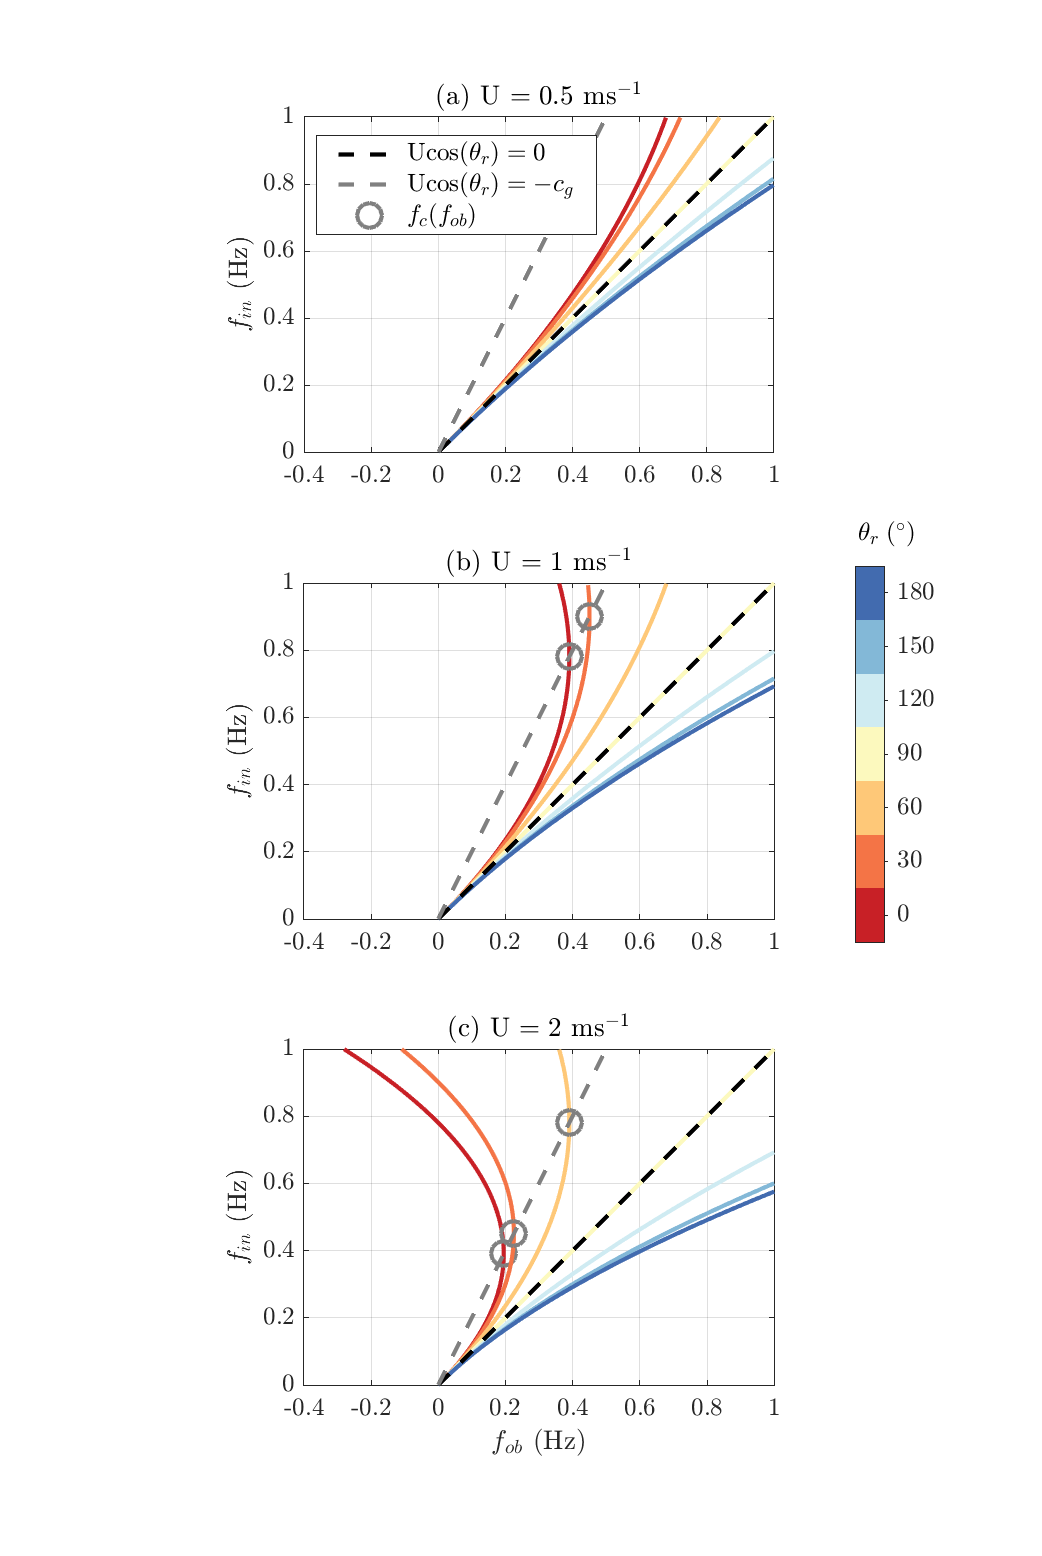
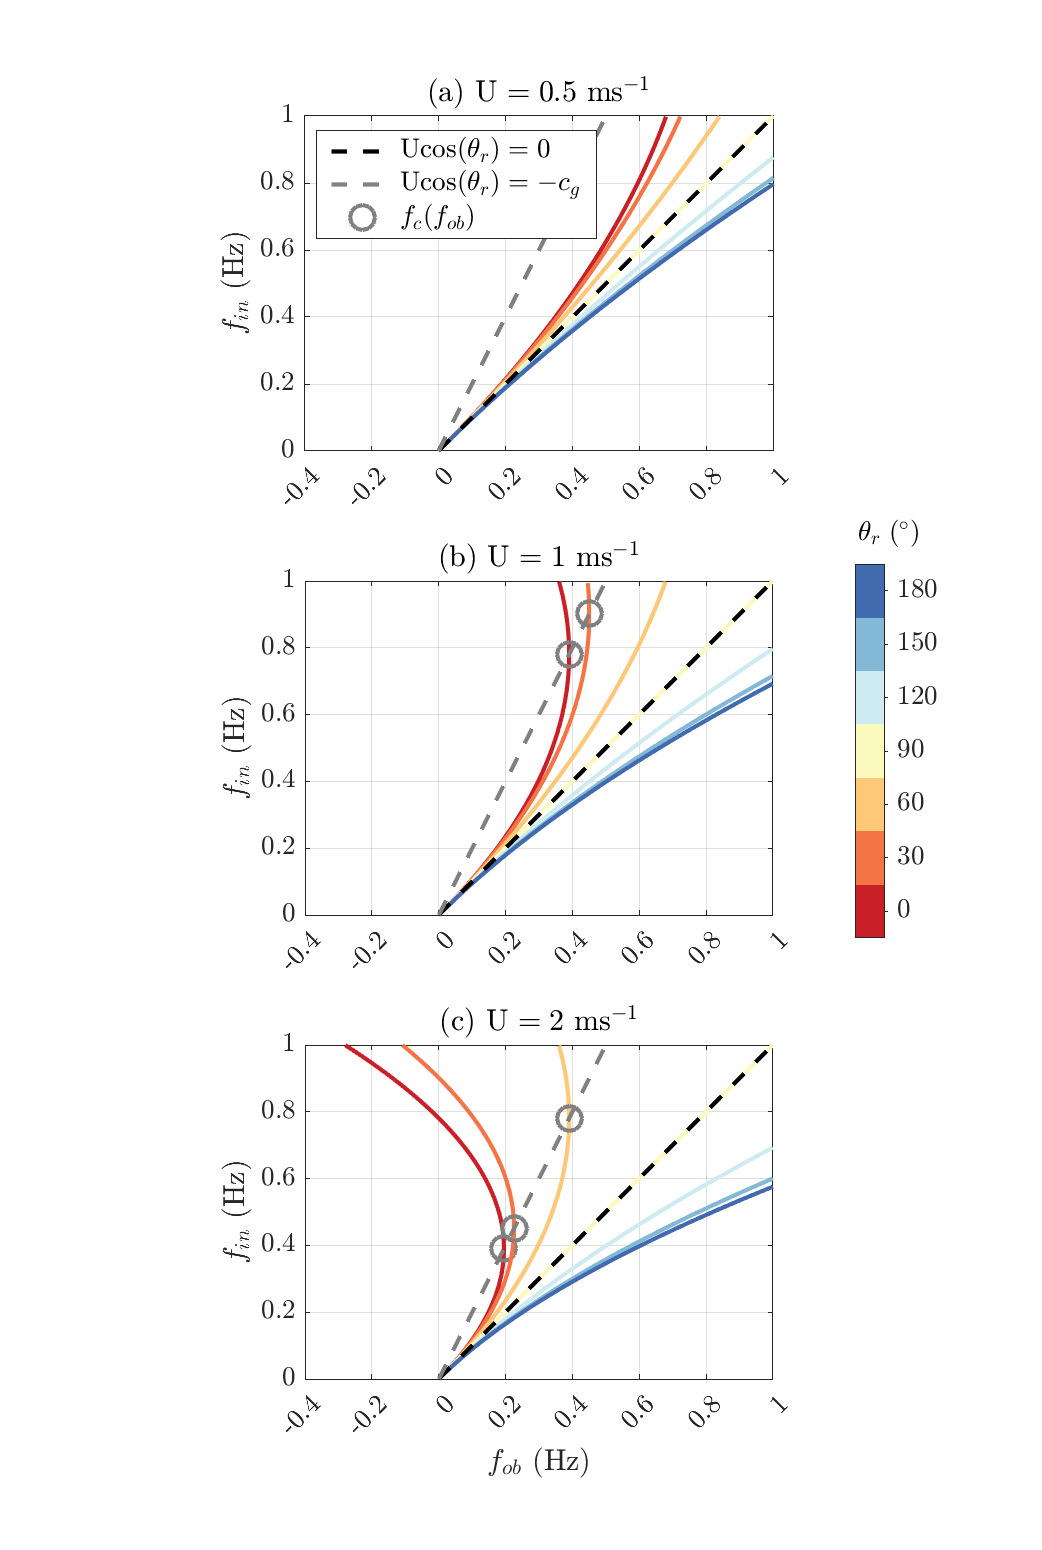
Increase fontsize to 13 and update caption.

diff --git a/src/fig3.m b/src/fig3.m
@@ -2,13 +2,17 @@
 % Luke Colosi | lcolosi@ucsd.edu | August 20th, 2021
 
 %-------------------------------- Caption --------------------------------%
-% Mapping from observed to intrinsic frequency for a platform 
-% moving at 0.5 ms$^{-1}$ (a), 1 ms$^{-1}$ (b), and 2 ms$^{-1}$ 
-% (c) with line color corresponding to the platform's direction relative
-% to the incoming waves. 0 $^{\circ}$ means the platform is moving 
-% strictly with waves) and 180 $^{\circ}$ means the platform is moving 
-% against waves. Gray dashed line is the cutoff frequency $f_c$ with gray
-% circles being $f_c$ for given given directions. 
+% Mapping from observed to intrinsic frequency for a platform moving at 
+% 0.5 ms$^{-1}$ (a), 1 ms$^{-1}$ (b), and 2 ms$^{-1}$ (c) with line color
+% corresponding to the platform's direction relative to the waves. The
+% platform is moving with the waves when $\theta_r$ ranges from 
+% $0^\circ \leq \theta_r < 90^\circ$ (red curves) and is moving against 
+% the waves when $\theta_r$ ranges from 
+% $90^\circ < \theta_r \leq 180^\circ$ (blue curves). The platform is
+% moving perpendicular to the waves when $\theta_r = 90^\circ$. The gray
+% dashed line is the cutoff frequency $f_c$ with gray circles being $f_c$
+% for a given directions. The black dashed line is the one-to-one line
+% occurring when the projected speed vanishes. 
 %-------------------------------------------------------------------------%
 
 clc, clear, close all;
@@ -204,7 +208,7 @@ fig = figure( 'Name', 'Observed vs Intrinsic Frequency');
 POS = [100 100 500 2000];                                                   %[100 100 2000 300];
 set(gcf,'color',[1 1 1])
 set(gcf,'position',POS) 
-fontsize = 12;
+fontsize = 13;
 
 % Obtain RGB triplet for colormap
 cmap = colormap(cbrewer2('RdYlBu'));
